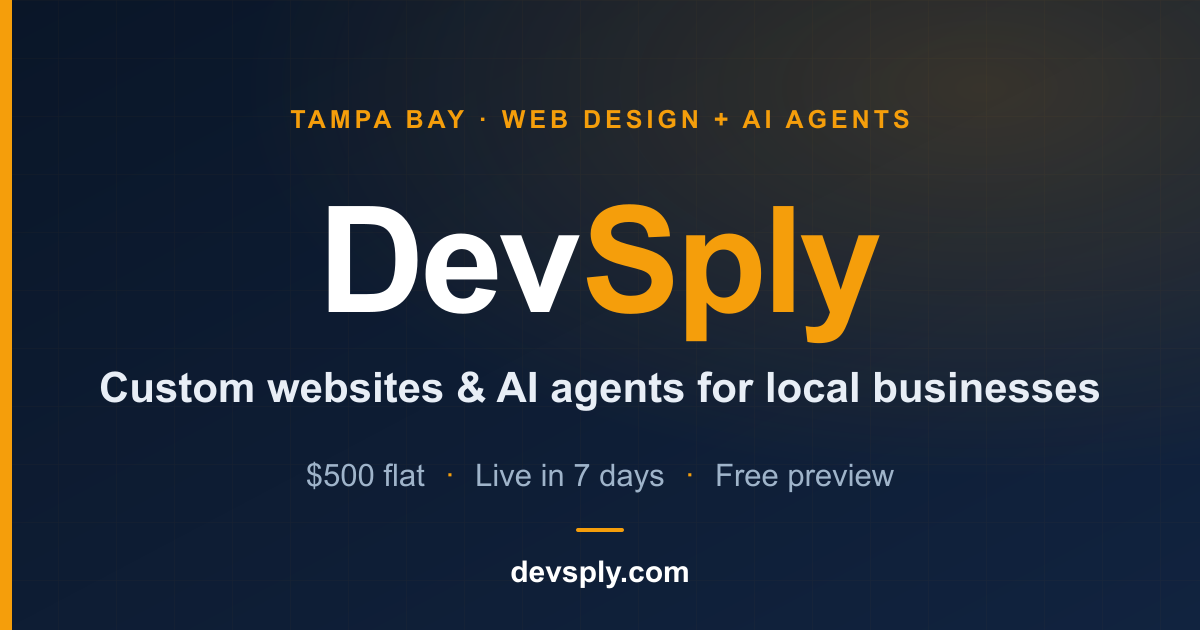
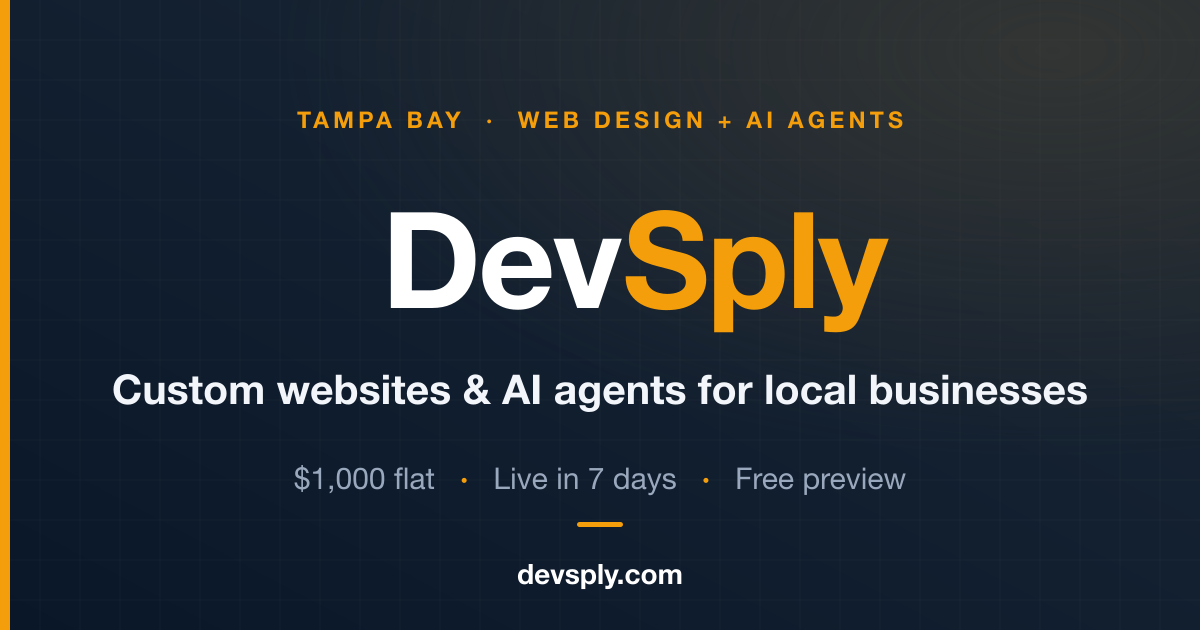
Double listed prices on devsply.com
Base site $500 -> $1,000, Full Business Site $900 -> $1,800, and
post-launch edits $50-$100 -> $100-$200. Covers the hero stat, pricing
cards, trust line, FAQ, CTA button, meta description, OG/Twitter tags
and the FAQPage JSON-LD.

Competitor comparison figures ($5k+, $5,000-$15,000) and the "$0 in
advertising" testimonial are unchanged.

Regenerated og-image.png, which had "$500 flat" rasterized into it and
would have contradicted the page wherever the site is shared.

diff --git a/sites/marketing/index.html b/sites/marketing/index.html
@@ -4,7 +4,7 @@
   <meta charset="UTF-8">
   <meta name="viewport" content="width=device-width, initial-scale=1.0, viewport-fit=cover">
   <title>DevSply — Tampa Bay Web Design. Live in 7 Days.</title>
-  <meta name="description" content="DevSply builds fast, custom websites for Tampa Bay contractors and local businesses. Live in 7 days. Free preview before you pay. Starting at $500 flat.">
+  <meta name="description" content="DevSply builds fast, custom websites for Tampa Bay contractors and local businesses. Live in 7 days. Free preview before you pay. Starting at $1,000 flat.">
   <meta name="keywords" content="web design Tampa FL, Tampa Bay website design, local business website, contractor website Tampa, affordable web design Tampa, HVAC website Tampa, plumber website Tampa">
   <meta name="robots" content="index, follow">
   <meta name="author" content="DevSply">
@@ -37,18 +37,18 @@
   <meta property="og:type" content="website">
   <meta property="og:url" content="https://devsply.com/">
   <meta property="og:title" content="DevSply — Tampa Bay Web Design. Live in 7 Days.">
-  <meta property="og:description" content="Custom websites for Tampa Bay local businesses. Free preview before you pay. $500 flat. Live in 7 days.">
+  <meta property="og:description" content="Custom websites for Tampa Bay local businesses. Free preview before you pay. $1,000 flat. Live in 7 days.">
   <meta property="og:image" content="https://devsply.com/og-image.png">
   <meta property="og:locale" content="en_US">
   <meta property="og:site_name" content="DevSply">
   <meta name="twitter:card" content="summary_large_image">
   <meta name="twitter:title" content="DevSply — Tampa Bay Web Design. Live in 7 Days.">
-  <meta name="twitter:description" content="Custom websites for Tampa Bay businesses. Free preview, $500 flat, 7 days.">
+  <meta name="twitter:description" content="Custom websites for Tampa Bay businesses. Free preview, $1,000 flat, 7 days.">
   <meta name="twitter:image" content="https://devsply.com/og-image.png">
 
   <script type="application/ld+json">{"@context":"https://schema.org","@type":"ProfessionalService","name":"DevSply","description":"DevSply builds professional websites and custom AI agents for local businesses in Tampa Bay, FL.","url":"https://devsply.com","email":"devsply@gmail.com","priceRange":"$$","address":{"@type":"PostalAddress","addressLocality":"Tampa","addressRegion":"FL","postalCode":"33602","addressCountry":"US"},"areaServed":[{"@type":"City","name":"Tampa"},{"@type":"City","name":"St. Petersburg"},{"@type":"City","name":"Clearwater"},{"@type":"City","name":"Brandon"},{"@type":"City","name":"Riverview"},{"@type":"City","name":"Wesley Chapel"}],"serviceType":["Web Design","Website Development","Custom AI Agents","Local SEO"]}</script>
 
-  <script type="application/ld+json">{"@context":"https://schema.org","@type":"FAQPage","mainEntity":[{"@type":"Question","name":"Do I have to pay before seeing the website?","acceptedAnswer":{"@type":"Answer","text":"No. We build a free custom preview before you commit to anything."}},{"@type":"Question","name":"How much does a website cost?","acceptedAnswer":{"@type":"Answer","text":"Starting at $500 flat — one payment, no monthly fees."}},{"@type":"Question","name":"How long does it take?","acceptedAnswer":{"@type":"Answer","text":"7 days or less. Priority projects are done in 5 days."}}]}</script>
+  <script type="application/ld+json">{"@context":"https://schema.org","@type":"FAQPage","mainEntity":[{"@type":"Question","name":"Do I have to pay before seeing the website?","acceptedAnswer":{"@type":"Answer","text":"No. We build a free custom preview before you commit to anything."}},{"@type":"Question","name":"How much does a website cost?","acceptedAnswer":{"@type":"Answer","text":"Starting at $1,000 flat — one payment, no monthly fees."}},{"@type":"Question","name":"How long does it take?","acceptedAnswer":{"@type":"Answer","text":"7 days or less. Priority projects are done in 5 days."}}]}</script>
 
   <style>
     *, *::before, *::after { box-sizing: border-box; margin: 0; padding: 0; }
@@ -549,7 +549,7 @@
       </div>
 
       <div class="hero-stats">
-        <div><div class="hs-val">$500</div><div class="hs-lbl">Flat price</div></div>
+        <div><div class="hs-val">$1,000</div><div class="hs-lbl">Flat price</div></div>
         <div><div class="hs-val">7 days</div><div class="hs-lbl">To go live</div></div>
         <div><div class="hs-val">Free</div><div class="hs-lbl">Preview first</div></div>
       </div>
@@ -671,7 +671,7 @@
     <span class="ti">🔒 Free preview — zero risk</span>
     <span class="ti">⚡ Live in 7 days</span>
     <span class="ti">📍 Tampa Bay local</span>
-    <span class="ti">💳 $500 flat · no hidden fees</span>
+    <span class="ti">💳 $1,000 flat · no hidden fees</span>
     <span class="ti">✅ See it before you pay</span>
     <span class="ti">📞 Response within 24 hrs</span>
   </div>
@@ -786,7 +786,7 @@
           <li>Domain &amp; hosting setup included</li>
           <li>Free preview before you pay</li>
         </ul>
-        <div class="svc-price">$500 <span>one-time flat</span></div>
+        <div class="svc-price">$1,000 <span>one-time flat</span></div>
         <button class="svc-btn" onclick="scrollToForm()">Get Free Preview →</button>
       </div>
 
@@ -803,7 +803,7 @@
           <li>Priority 5-day delivery</li>
           <li>1 month free edits after launch</li>
         </ul>
-        <div class="svc-price">$900 <span>one-time flat</span></div>
+        <div class="svc-price">$1,800 <span>one-time flat</span></div>
         <button class="svc-btn" onclick="scrollToForm()">Get Free Preview →</button>
       </div>
 
@@ -844,7 +844,7 @@
 
       <div class="faq-item">
         <button class="faq-trigger" onclick="toggleFaq(this)">
-          <span>How is $500 possible when agencies charge $5,000?</span>
+          <span>How is $1,000 possible when agencies charge $5,000?</span>
           <span class="faq-icon">+</span>
         </button>
         <div class="faq-body"><p>I'm one developer — no agency overhead, no account managers, no endless revision cycles. I use AI-assisted development workflows that let me build fast without cutting corners on quality.</p></div>
@@ -871,7 +871,7 @@
           <span>What if I want changes after it's live?</span>
           <span class="faq-icon">+</span>
         </button>
-        <div class="faq-body"><p>The Full Business Site includes 1 month of free edits after launch. After that, small changes are typically $50–$100. You own everything — no lock-in.</p></div>
+        <div class="faq-body"><p>The Full Business Site includes 1 month of free edits after launch. After that, small changes are typically $100–$200. You own everything — no lock-in.</p></div>
       </div>
 
       <div class="faq-item">
@@ -918,7 +918,7 @@
 
 <!-- STICKY MOBILE CTA -->
 <div class="sticky">
-  <button onclick="scrollToForm()">⚡ Get My Free Preview — $500 Flat</button>
+  <button onclick="scrollToForm()">⚡ Get My Free Preview — $1,000 Flat</button>
 </div>
 
 <script>
